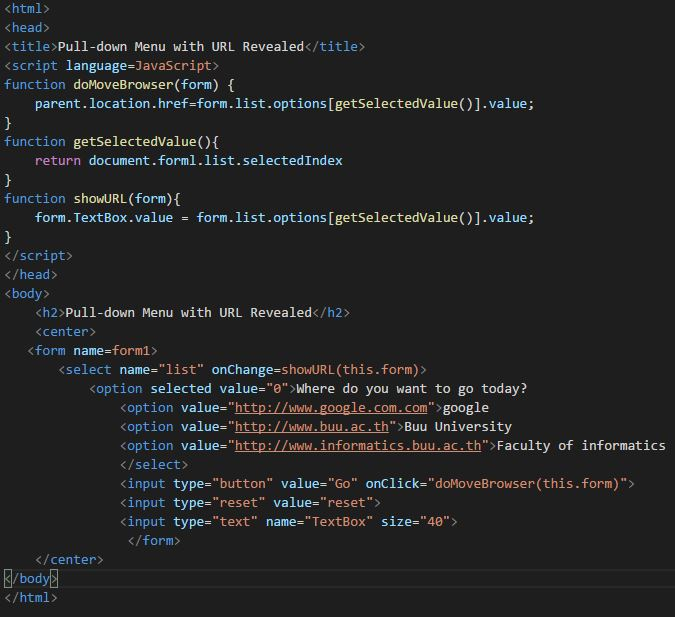
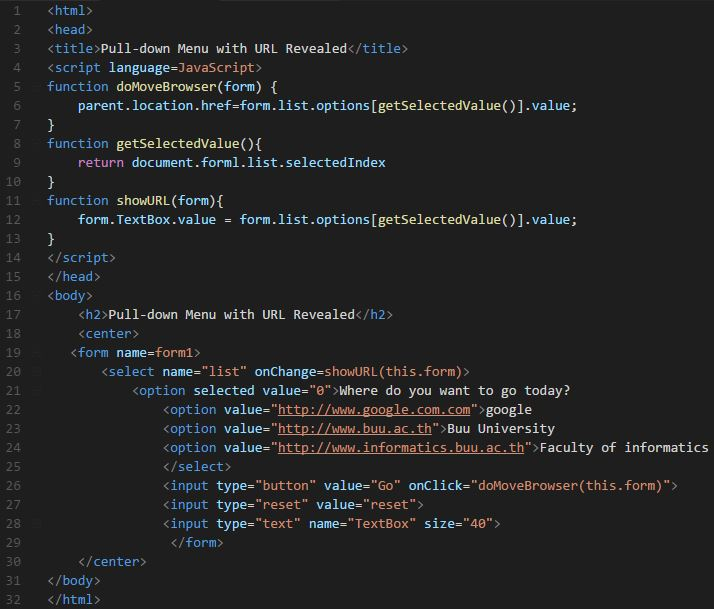
add coding

Changed region(s): [[0.0, 0.1872, 0.9956, 0.9984], [0.0, 0.0, 0.8089, 0.1872], [0.0, 0.6552, 0.0311, 0.8112]]

diff --git a/js1.html b/js1.html
@@ -403,57 +403,50 @@ if (document.images){
           
 
       <tr>
-          <td align="left">บรรทัดที่ห้า สร้าง function outputDate()</td>
+          <td align="left">บรรทัดที่ห้า สร้าง function doMoveBrowser() รับค่า form</td>
       </tr>
-      <tr><td align="left">บรรทัดที่หก ตรวจสอบ document ชนิด images (รูปภาพ)</td></tr>
-      <tr><td align="left">บรรทัดที่หก ถ้าจริง ให้ document.images["docs"].src = docsOn.src</td></tr>
-      <tr><td align="left">บรรทัดที่เก้า สร้าง function unhighlightdocs()</td></tr>
-      <tr><td align="left">บรรทัดที่สิบ ตรวจสอบ document ชนิด images (รูปภาพ)</td></tr>
-      <tr><td align="left">บรรทัดที่สิบ ถ้าจริง ให้ document.images["docs"].src = docsOff.src</td></tr>
-      <tr><td align="left">บรรทัดที่สิบสอง ตรวจสอบ document ชนิด images (รูปภาพ)</td></tr>
-      <tr><td align="left">บรรทัดที่สิบสาม ถ้าจริง ให้ตัวแปร docsOn เก็บค่า Images (รูปภาพ)</td></tr>
-      <tr><td align="left">บรรทัดที่สิบสี่ ตัวแปร docsOn.src เก็บไฟล์รูปภาพ ชื่อ gg_color.png</td></tr>
-      <tr><td align="left">บรรทัดที่สิบห้า ถ้าจริง ให้ตัวแปร docsOff เก็บค่า Images (รูปภาพ)</td></tr>
-      <tr><td align="left">บรรทัดที่สิบหก ตัวแปร docsOff.src เก็บไฟล์รูปภาพ ชื่อ gg_gray.png</td></tr>
-      <tr><td align="left">บรรทัดที่ยี่สิบสาม ให้ลิงค์ไปยัง www.google.com </td></tr>
-      <tr><td align="left">บรรทัดที่ยี่สิบสี่ ใเมื่อเอาเคอร์เซอร์ไปบริเวณรูปภาำจะเรียกฟังก์ชั่น highlightdocs() และเมื่อกดรูปภาำจะเรียกฟังก์ชั่น unhighlightdocs() </td></tr>
-      <tr><td align="left">บรรทัดที่ยี่สิบห้า ใส่รูปภาพไฟล์ชื่อ gg_gray.png ตั้งชื่อว่า docs ให้มีความสูง (Height) 250, กว้าง (Width) 250 และให้เส้นขอบ =0 </td></tr>
+      <tr><td align="left">บรรทัดที่หก ให้ parent เก็บค่าที่ตั้งของลิงค์ แล้วเก็บการสร้าง form ประเภท list (รายการ) มีรายการตามฟังก์ชั่นชื่อ getSelectedValue()</td></tr>
+      <tr><td align="left">บรรทัดที่แปด สร้าง function getSelectedValue()</td></tr>
+      <tr><td align="left">บรรทัดที่เก้า รีเทิร์นค่า document ชื่อ form1 ประเภท list (รายการ) ที่คำสั่ง selectedIndex กลับ </td></tr>
+      <tr><td align="left">บรรทัดที่สิบเอ็ด สร้าง function showURL(form)</td></tr>
+      <tr><td align="left">บรรทัดที่สิบสอง สร้าง form ประเภท TextBox (กล่องข้อความ) ให้เก็บการสร้าง form ประเภท list (รายการ) มีรายการตามฟังก์ชั่นชื่อ getSelectedValue()</td></tr>
+      <tr><td align="left">บรรทัดที่สิบเก้า สร้าง form ชื่อ form1</td></tr>
+      <tr><td align="left">บรรทัดที่ยี่สิบ ประเภท list (รายการ) เรียกใช้ฟังก์ชั่นชื่อ showURL(this.form) </td></tr>
+      <tr><td align="left">บรรทัดที่ยี่สิบเอ็ด รายการที่ 1 แสดงข้อความ "Where do you want to go today?"</td></tr>
+      <tr><td align="left">บรรทัดที่ยี่สิบสอง รายการที่ 2 เก็บค่า http://www.google.com และแสดงข้อความ "Google"</td></tr>
+      <tr><td align="left">บรรทัดที่ยี่สิบสาม รายการที่ 3 เก็บค่า http://www.buu.ac.th และแสดงข้อความ "Buu University"</td></tr>
+      <tr><td align="left">บรรทัดที่ยี่สิบสี่ รายการที่ 4 เก็บค่า http://www.informatics.buu.ac.th และแสดงข้อความ "Faculty of Informatics" </td></tr>
+      <tr><td align="left">บรรทัดที่ยี่สิบหก สร้างปุ่มกด ประเภท button เก็บค่า Go ถ้ากดปุ่มจะเรียกฟังก์ชั่นชื่อ doMoveBrowser(this.form) </td></tr>
+      <tr><td align="left">บรรทัดที่ยี่สิบเจ็ด สร้างปุ่มกด ประเภท reset เก็บค่า Reset</td></tr>
+      <tr><td align="left">บรรทัดที่ยี่สิบแปด สร้างกล่องข้อความ ประเภท TextBox ขนาด 40 px</td></tr>
        </table> 
 
 <p>output!</p>
-<script language=JavaScript>
-function highlightdocs(){
-    if(document.images) { document.images["docs"].src= docsOn.src; }
+<SCRIPT LANGUAGE=JavaScript>
+      function doMoveBrowser(form){
+        parent.location.href=form.list.options[getSelectedValue()].value;
 }
-
-function unhighlightdocs(){
-    if(document.images) {document.images["docs"].src= docsOff.src; }
+      function getSelectedValue(){
+        return document.form1.list.selectedIndex
 }
-if (document.images){
-    docsOn = new Image();
-    docsOn.src = "gg_color.png";
-    docsOff = new Image();
-    docsOff.src = "gg_gray.png";
+      function showURL(form){
+        form.TextBox.value = form.list.options[getSelectedValue()].value;
 }
-
-</script>
-</head>
-<body>
-  <a href="http://www.google.com"
-        onMouseOver="highlightdocs()" onMouseOut="unhighlightdocs()">
-        <img src="gg_gray.png" name=docs height="250" width="250" border=0>
-        </a>
-   </body>
-    </pre>
+</SCRIPT>
+    <h3>Pull-down Menu with URL Revealed</h3>
+<center>
+    <form name=form1>
+      <select name=list onChange=showURL(this.form)>
+        <option selected value=0> Where do you want to go today?
+        <option value="http://www.google.com">Google
+        <option value="http://www.buu.ac.th">Buu University
+        <option value="http://www.informatics.buu.ac.th">Faculty of Informatics
+      </select>&nbsp;<input type=button value=Go onClick=doMoveBrowser(this.form)>&nbsp;<input type=reset value=reset>
+      <input type=text name=TextBox size=40>
+</form>
+</center>
+</pre>
     </div>
 
-
-
-
-
-
-
-
-    
   </body>
 </html>
